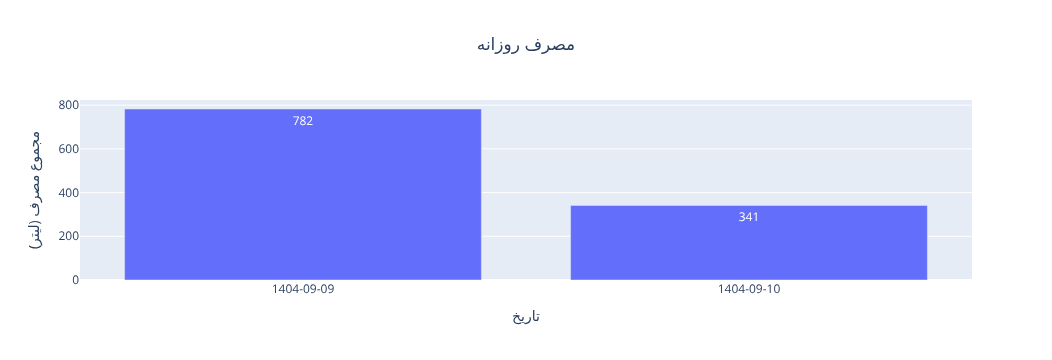
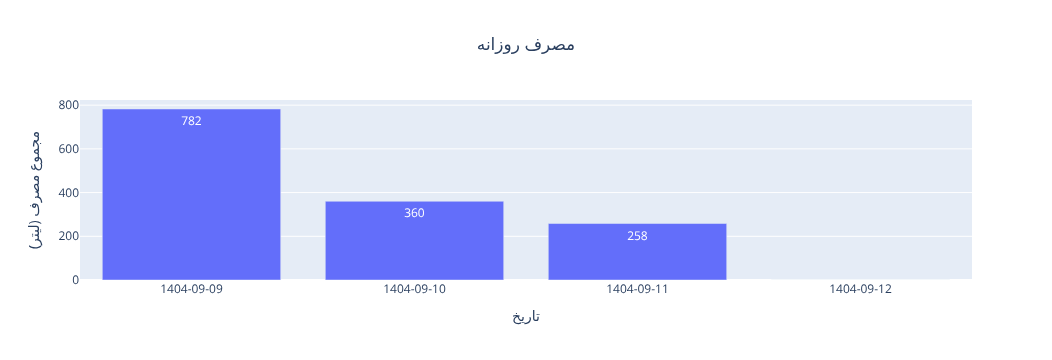
new data for 1404-09-11

diff --git a/docs/WaterConsumption.html b/docs/WaterConsumption.html
@@ -151,7 +151,7 @@ pre > code.sourceCode > span > a:first-child::before { text-decoration: underlin
 
 
 
-<div id="dde38749-5795-42d9-9819-01a0b2a8a913" class="cell" data-execution_count="6">
+<div id="dde38749-5795-42d9-9819-01a0b2a8a913" class="cell" data-execution_count="1">
 <details class="code-fold">
 <summary>Code</summary>
 <div class="code-copy-outer-scaffold"><div class="sourceCode cell-code" id="cb1"><pre class="sourceCode python code-with-copy"><code class="sourceCode python"><span id="cb1-1"><a href="#cb1-1" aria-hidden="true" tabindex="-1"></a><span class="im">import</span> pandas <span class="im">as</span> pd</span>
@@ -201,7 +201,7 @@ pre > code.sourceCode > span > a:first-child::before { text-decoration: underlin
 <span id="cb1-45"><a href="#cb1-45" aria-hidden="true" tabindex="-1"></a></span></code></pre></div><button title="Copy to Clipboard" class="code-copy-button"><i class="bi"></i></button></div>
 </details>
 </div>
-<div id="baebabfd-1082-4b66-a191-0da12872555a" class="cell" data-execution_count="17">
+<div id="baebabfd-1082-4b66-a191-0da12872555a" class="cell" data-execution_count="2">
 <details class="code-fold">
 <summary>Code</summary>
 <div class="code-copy-outer-scaffold"><div class="sourceCode cell-code" id="cb2"><pre class="sourceCode python code-with-copy"><code class="sourceCode python"><span id="cb2-1"><a href="#cb2-1" aria-hidden="true" tabindex="-1"></a>a <span class="op">=</span> (comp</span>
@@ -251,7 +251,7 @@ pre > code.sourceCode > span > a:first-child::before { text-decoration: underlin
 </div>
 </div>
 </div>
-<div id="8ac0f839-2a59-4f7d-81ad-9b10c980221d" class="cell" data-execution_count="14">
+<div id="8ac0f839-2a59-4f7d-81ad-9b10c980221d" class="cell" data-execution_count="3">
 <details class="code-fold">
 <summary>Code</summary>
 <div class="code-copy-outer-scaffold"><div class="sourceCode cell-code" id="cb3"><pre class="sourceCode python code-with-copy"><code class="sourceCode python"><span id="cb3-1"><a href="#cb3-1" aria-hidden="true" tabindex="-1"></a><span class="kw">def</span> consumption(df, date):</span>
@@ -317,6 +317,20 @@ pre > code.sourceCode > span > a:first-child::before { text-decoration: underlin
 <div>
 <figure class="figure">
 <p><img src="WaterConsumption_files/figure-html/cell-4-output-2.png" class="img-fluid figure-img"></p>
+</figure>
+</div>
+</div>
+<div class="cell-output cell-output-display">
+<div>
+<figure class="figure">
+<p><img src="WaterConsumption_files/figure-html/cell-4-output-3.png" class="img-fluid figure-img"></p>
+</figure>
+</div>
+</div>
+<div class="cell-output cell-output-display">
+<div>
+<figure class="figure">
+<p><img src="WaterConsumption_files/figure-html/cell-4-output-4.png" class="img-fluid figure-img"></p>
 </figure>
 </div>
 </div>
